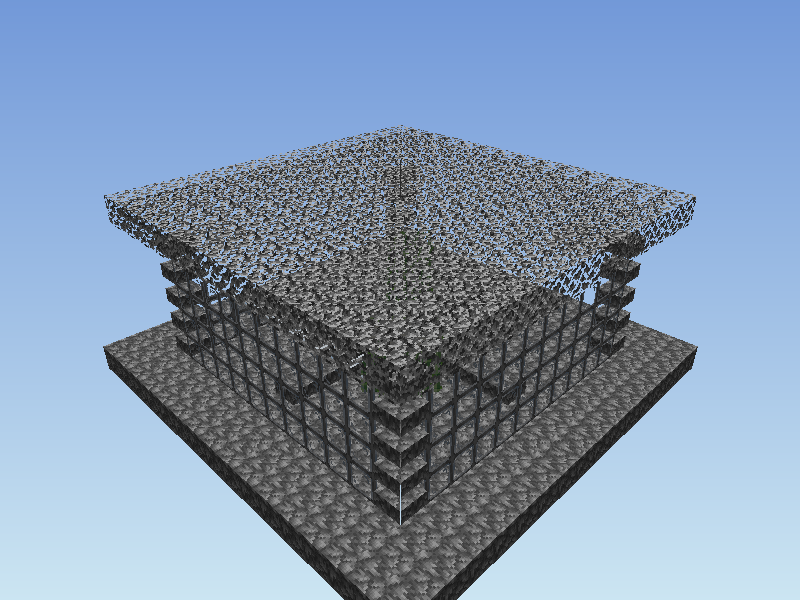
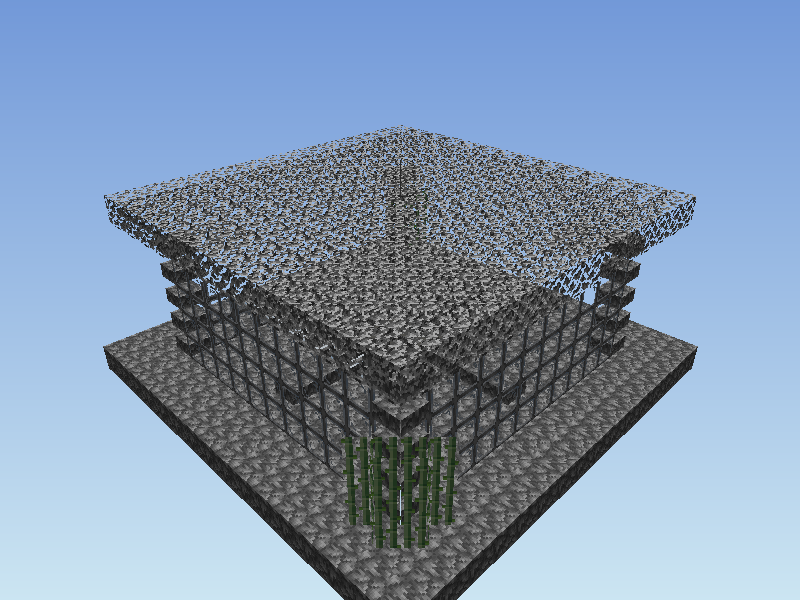
Test x-shaped blocks.

Changed region(s): [[0.4062, 0.72, 0.5938, 0.93], [0.5312, 0.6, 0.5625, 0.66], [0.5, 0.45, 0.5312, 0.48]]

diff --git a/tests/cross.rs b/tests/cross.rs
@@ -124,19 +124,27 @@ fn cross_diagonal_positions_span_unit_block() {
             diag
         );
 
-        // XZ center should be at (0.5, 0.5).
-        let cx = verts.iter().map(|v| v.x).sum::<f32>() / 4.0;
-        let cz = verts.iter().map(|v| v.z).sum::<f32>() / 4.0;
-        assert!(
-            (cx - 0.5).abs() < 1e-6,
-            "diagonal {:?} x center should be 0.5, got {cx}",
-            diag
-        );
-        assert!(
-            (cz - 0.5).abs() < 1e-6,
-            "diagonal {:?} z center should be 0.5, got {cz}",
-            diag
-        );
+        // All vertices should be within the unit cube [0,1]^3.
+        for (i, v) in verts.iter().enumerate() {
+            assert!(
+                v.x >= -1e-6 && v.x <= 1.0 + 1e-6,
+                "diagonal {:?} vertex {i} x={} out of [0,1]",
+                diag,
+                v.x
+            );
+            assert!(
+                v.y >= -1e-6 && v.y <= 1.0 + 1e-6,
+                "diagonal {:?} vertex {i} y={} out of [0,1]",
+                diag,
+                v.y
+            );
+            assert!(
+                v.z >= -1e-6 && v.z <= 1.0 + 1e-6,
+                "diagonal {:?} vertex {i} z={} out of [0,1]",
+                diag,
+                v.z
+            );
+        }
     }
 }
 

diff --git a/examples/render_chunk.rs b/examples/render_chunk.rs
@@ -284,7 +284,7 @@ fn build_chunk() -> PaddedChunk<MyBlock> {
     }
 
     // Sugar cane stalks (3 blocks tall).
-    for &(sx, sz) in &[(5, 5), (5, 6), (6, 5), (10, 10), (10, 11)] {
+    for &(sx, sz) in &[(1, 1), (1, 2), (2, 1), (14, 14), (14, 15)] {
         for y in 1..4 {
             chunk.set(sx, y, sz, MyBlock::SugarCane);
         }
